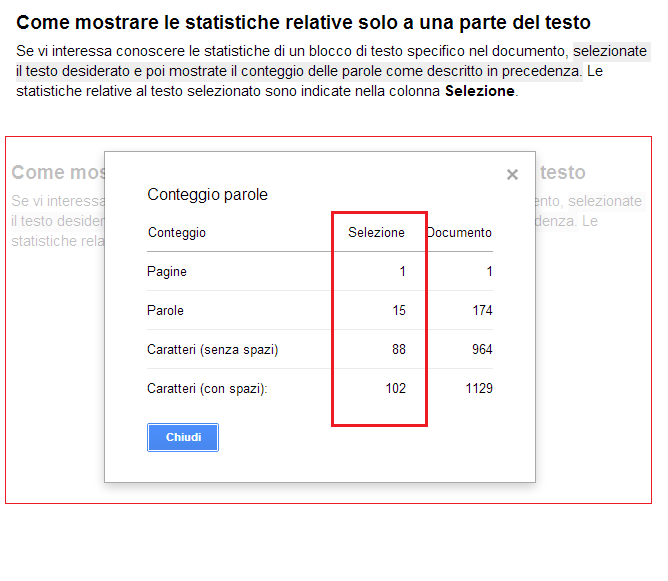
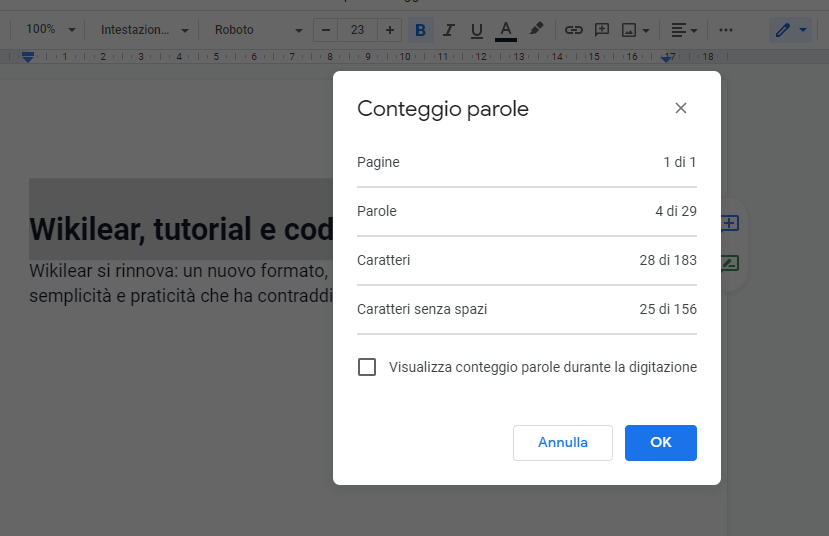
Update article

diff --git a/src/google-docs/tips-and-tricks/mostrare-il-conteggio-delle-parole-in-documenti-google.md b/src/google-docs/tips-and-tricks/mostrare-il-conteggio-delle-parole-in-documenti-google.md
@@ -1,32 +1,89 @@
 ---
 date: 2012-11-05
-title: Mostrare il conteggio delle parole in Documenti Google
-description: Come usare Conteggio parole per conoscere il numero di pagine, parole, caratteri senza e con spazi in un documento di Google Docs.
+updated: 2021-09-05
+title: Come contare il numero delle parole in Documenti Google
+description: Come usare Conteggio parole per conoscere il numero di pagine, parole, caratteri con e senza spazi in un documento di Google Docs.
 tags: Tasti di scelta rapida
-subtitle: Come usare Conteggio parole per conoscere il numero di pagine, parole, caratteri senza e con spazi in un documento di Google Docs.
-image: /images/undraw_Documents_re_isxv.png
+subtitle: Come usare Conteggio parole per conoscere il numero di pagine, parole, caratteri con e senza spazi in Documenti Google.
+image: /images/documenti-google-conteggio-parole-testo-selezionato.png
 image_title:
 image_description:
 old_url: /2012/11/mostrare-il-conteggio-delle-parole-in-Google-Documenti.html
 ---
-In tutti i casi in cui dovete sapere di quante parole o caratteri è composto il vostro documento potere usare lo strumento **Conteggio parole** di Documenti Google.
+In tutti i casi in cui devi sapere di quante parole o caratteri è composto un documento puoi usare lo strumento **Conteggio parole** di Documenti Google.
 
-La finestra **Conteggio parole** indica il numero di pagine, parole, caratteri senza spazi e caratteri con spazi presenti nel documento o nel testo selezionato.
+![Finestra conteggio parole](/images/documenti-google-conteggio-parole.png 'La finestra Conteggio parole visualizza il numero di pagine, parole e caratteri (con o senza spazi)'){.w-max .mb-8}**La finestra __Conteggio parole__ indica il numero di pagine, parole, caratteri con spazi e caratteri senza spazi presenti nel documento o nel testo selezionato.**
 
-![Finestra conteggio parole](/images/documenti-google-conteggio-parole.png 'La finestra Conteggio parole visualizza il numero di pagine, parole e caratteri (con o senza spazi)'){.w-full .md:w-7/12 .mb-8}
+<nav class="mt-8">
+<details class="bg-gray-100 dark:bg-gray-800 text-sm lg:text-base p-4" open>
+  <summary>Contenuto</summary>
+
+- [Come mostrare le statistiche sul documento in uso](#come-mostrare-le-statistiche-sul-documento-in-uso)
+- [Come mostrare le statistiche relative solo a una parte del testo](#come-mostrare-le-statistiche-relative-solo-a-una-parte-del-testo)
+- [Come mostrare le statistiche in tempo reale](#come-mostrare-le-statistiche-in-tempo-reale)
+  - [Per contare il numero di parole durante la digitazione](#per-contare-il-numero-di-parole-durante-la-digitazione)
+  - [Per cambiare statistiche durante la digitazione](#per-cambiare-statistiche-durante-la-digitazione)
+  - [Per nascondere il conteggio delle parole durante la digitazione](#per-nascondere-il-conteggio-delle-parole-durante-la-digitazione)
+
+</details>
+</nav>
 
 ## Come mostrare le statistiche sul documento in uso
-Per mostrare il conteggio delle parole fate clic su **Conteggio parole** nel menu **Strumenti.**
 
-![Conteggio parole](/images/documenti-google-menu-conteggio-parole.png 'Per visualizzare le statistiche sul testo del documento fate clic su Conteggio parole dal menu Strumenti'){.w-full .md:w-9/12 .mb-8}
+Per contare il numero delle parole in un documento:
 
-In alternativa potete usare la sequenza di tasti: **Ctrl+Maiusc+C.**
+1. Fai clic sul menu **Strumenti**.
+2. Fai clic su **Conteggio parole.**
 
-![CTRL+MAIUSC+C](/images/CTRL+MAIUSC+C.png 'Per mostra il conteggio delle parole è possibile usare la combinazione di tasti di scelta rapida CTRL+MAIUSC+C'){.w-full .md:w-7/12 .mb-8}
+   ![Conteggio parole](/images/documenti-google-menu-conteggio-parole.png 'Per visualizzare le statistiche sul testo del documento fai clic su Conteggio parole dal menu Strumenti'){.w-max .mb-8}
+
+In alternativa puoi usare la sequenza di tasti: **Ctrl+Maiusc+C.**
+
+![CTRL+MAIUSC+C](/images/CTRL+MAIUSC+C.png 'Per mostra il conteggio delle parole è possibile usare la combinazione di tasti di scelta rapida CTRL+MAIUSC+C'){.w-min .mb-8}
+
+> A meno che non selezioni una sezione del documento, il conteggio parole si applica a tutto il testo tranne intestazioni, piè di pagina e note a piè di pagina.
 
 ## Come mostrare le statistiche relative solo a una parte del testo
 
-Se vi interessa conoscere le statistiche di un blocco di testo specifico nel documento, prima selezionate il testo desiderato e poi mostrate il conteggio delle parole come descritto in precedenza. Le statistiche relative al testo selezionato sono indicate nella colonna **Selezione.**
+Per contare le parole di un paragrafo o di un blocco di testo specifico:
 
-![Conteggio parole con testo selezionato](/images/documenti-google-conteggio-parole-testo-selezionato.png 'La colonna Seleziona mostra le statistiche relative al blocco di testo selezionato'){.w-full .mb-8}
+1. Seleziona il testo desiderato.
+2. Fai clic sul menu **Strumenti.**
+3. Fai clic su **Conteggio parole.**
 
+   ![Conteggio parole con testo selezionato](/images/documenti-google-conteggio-parole-testo-selezionato.png 'La finestra visualizza le informazioni relative al testo selezionato rispetto al totale nel documento'){.w-max .mb-0}**Il numero di parole selezionate è visualizzato in confronto al numero totale di parole nel documento.**
+
+## Come mostrare le statistiche in tempo reale
+
+Per documenti brevi, come articoli per un giornale, curriculum o temi scolastici può essere utile visualizzare il conteggio delle parole man mano che si scrive.
+
+### Per contare il numero di parole durante la digitazione
+
+1. Fai clic sul menu **Strumenti.**
+2. Fai clic su **Conteggio parole.**
+3. Seleziona la casella **Visualizza conteggio parole durante la digitazione.**
+4. Fai clic su **Ok.**
+
+   ![Casella conteggio parole selezionata](/images/documenti-google-conteggio-parole-casella-durante-digitazione.png 'Casella Visualizza conteggio parole durante la digitazione selezionata'){.w-max .mb-8}
+
+   In basso a sinistra puoi vedere in tempo reale il numero di parole di cui è composto il documento.
+
+   ![Riquadro Conteggio parole](/images/documenti-google-conteggio-parole-durante-digitazione.png 'Riquadro conteggio parole durante la digitazione'){.mb-8}
+
+### Per cambiare statistiche durante la digitazione
+
+1. Fai clic sul riquadro con il conteggio delle parole in basso a sinistra.
+2. Fai clic sull'informazione da mostrare durante la digitazione.
+
+   ![Riquadro Conteggio parole con pannello statistiche](/images/documenti-google-conteggio-parole-durante-digitazione-cambiare-informazione.png 'Riquadro conteggio parole durante la digitazione con il pannello statistiche aperto'){.mb-8}
+
+   Ora il riquadro in basso a sinistra visualizza la statistica che hai selezionato.
+
+   ![Riquadro Conteggio parole](/images/documenti-google-conteggio-caratteri-durante-digitazione.png 'Riquadro conteggio parole durante la digitazione'){.mb-8}
+
+### Per nascondere il conteggio delle parole durante la digitazione
+
+1. Fai clic sul riquadro con le statistiche in basso a sinistra.
+2. Fai clic su **Nascondi conteggio parole.**
+
+   ![Nascondi riquadro Conteggio parole](/images/documenti-google-conteggio-parole-durante-digitazione-nascondi-riquadro.png 'Comando per nascondere il riquadro conteggio parole durante la digitazione'){.mb-8}
